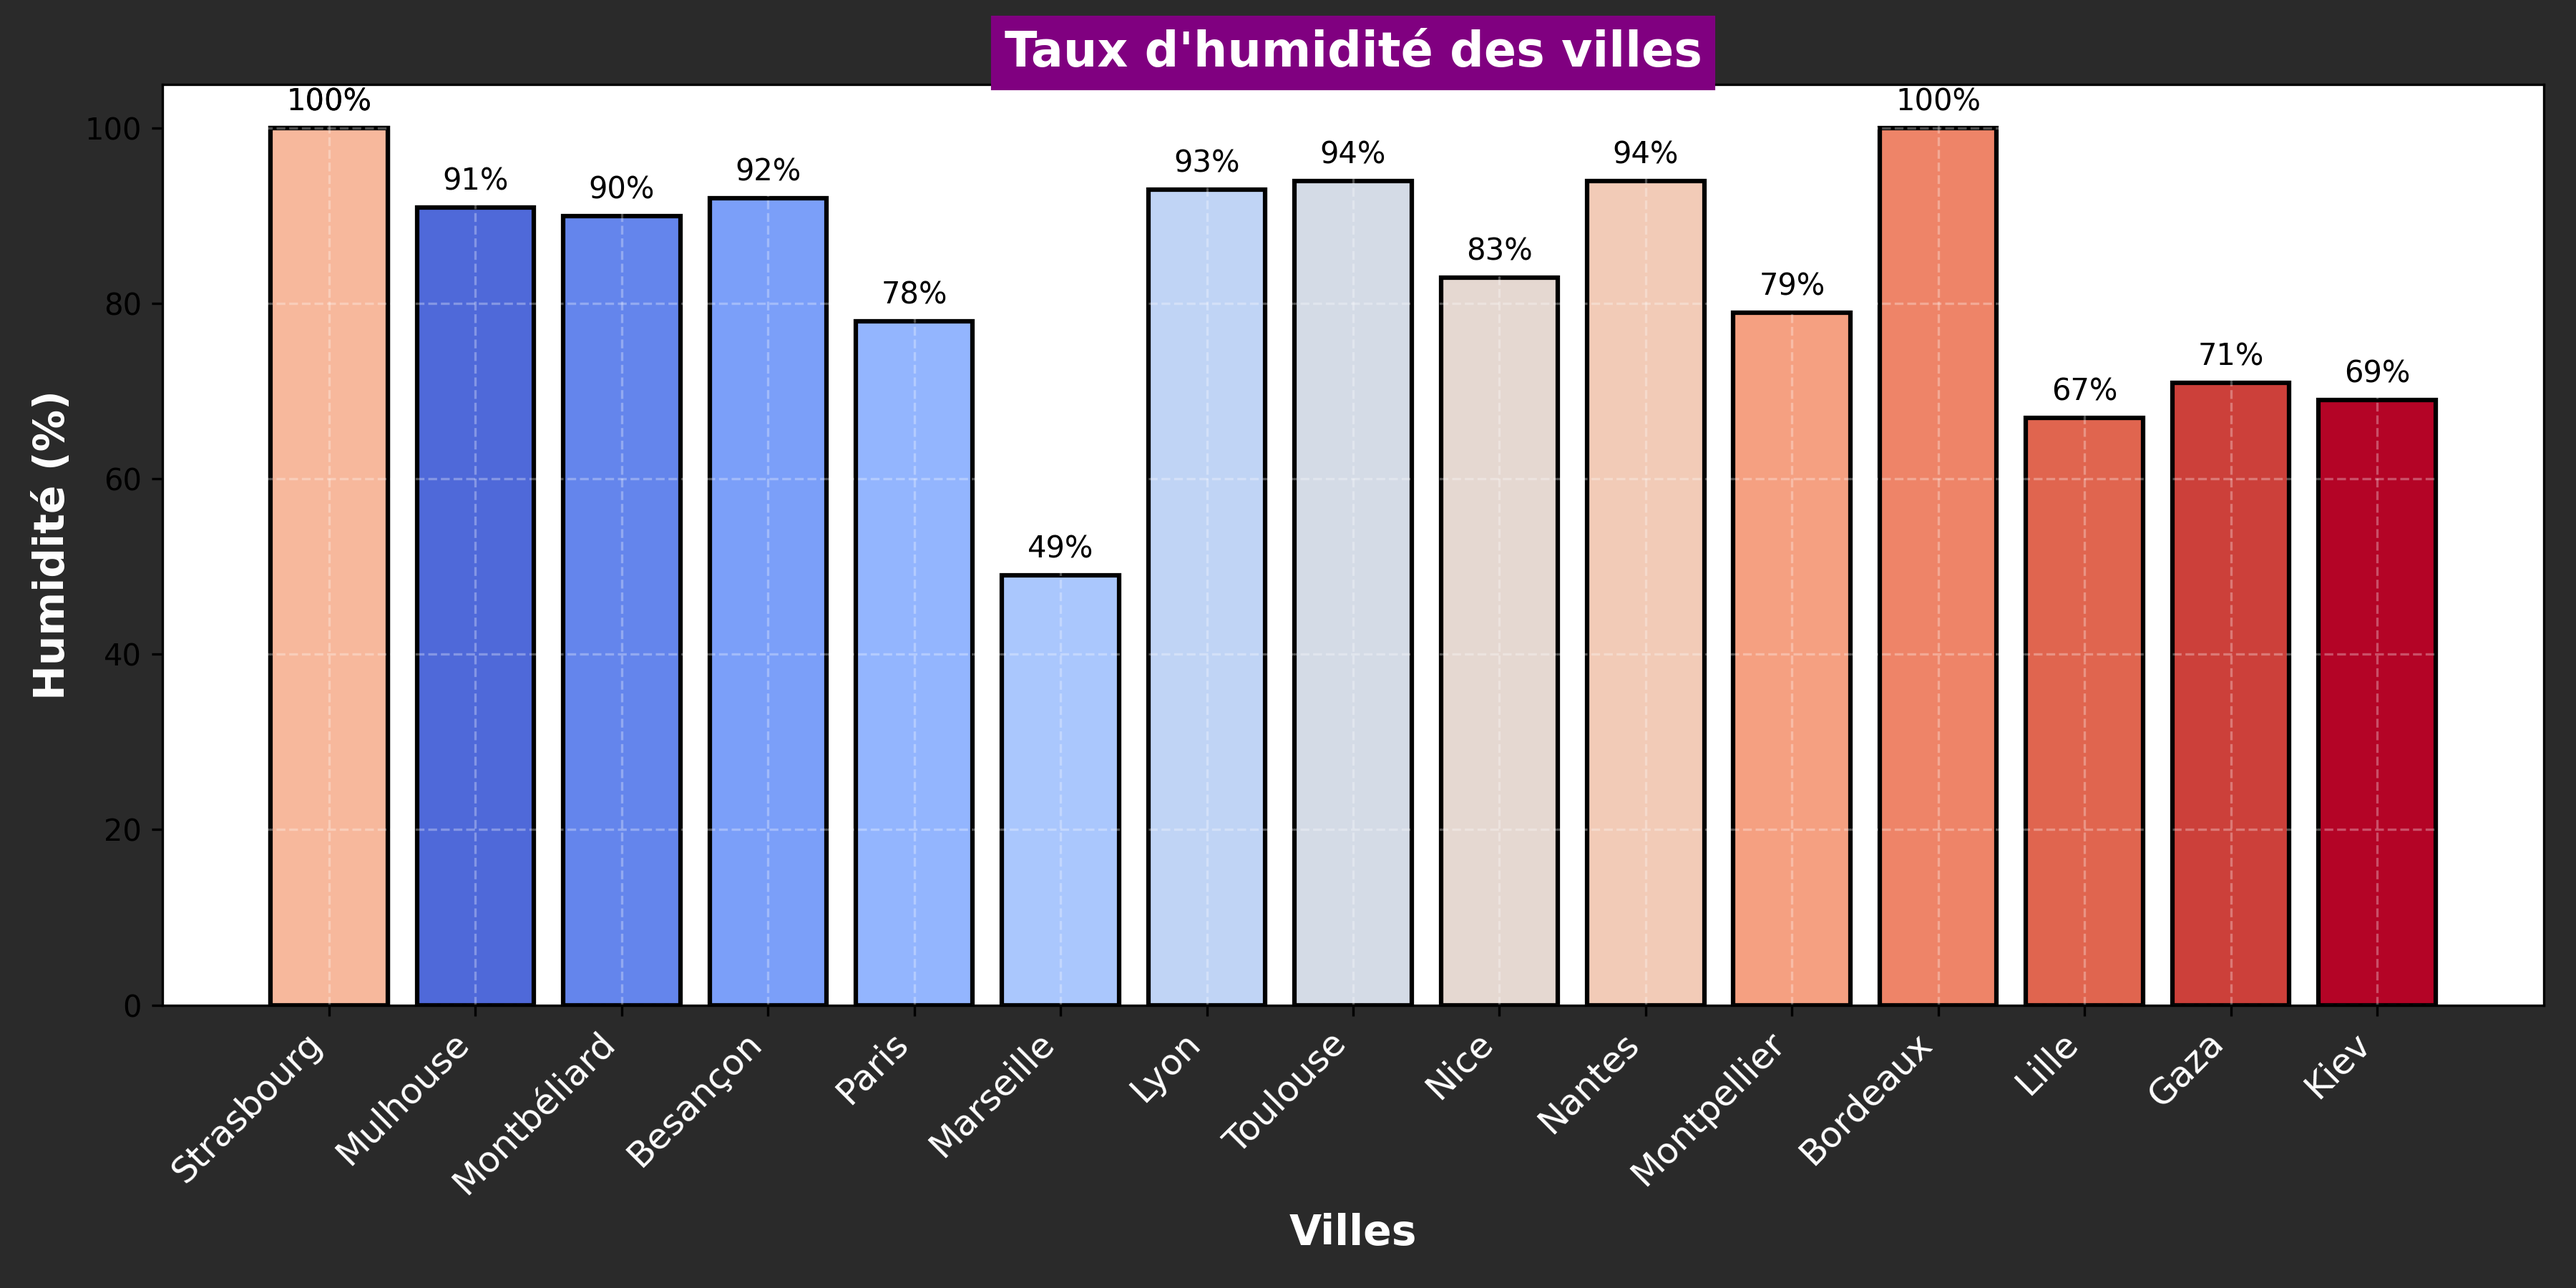
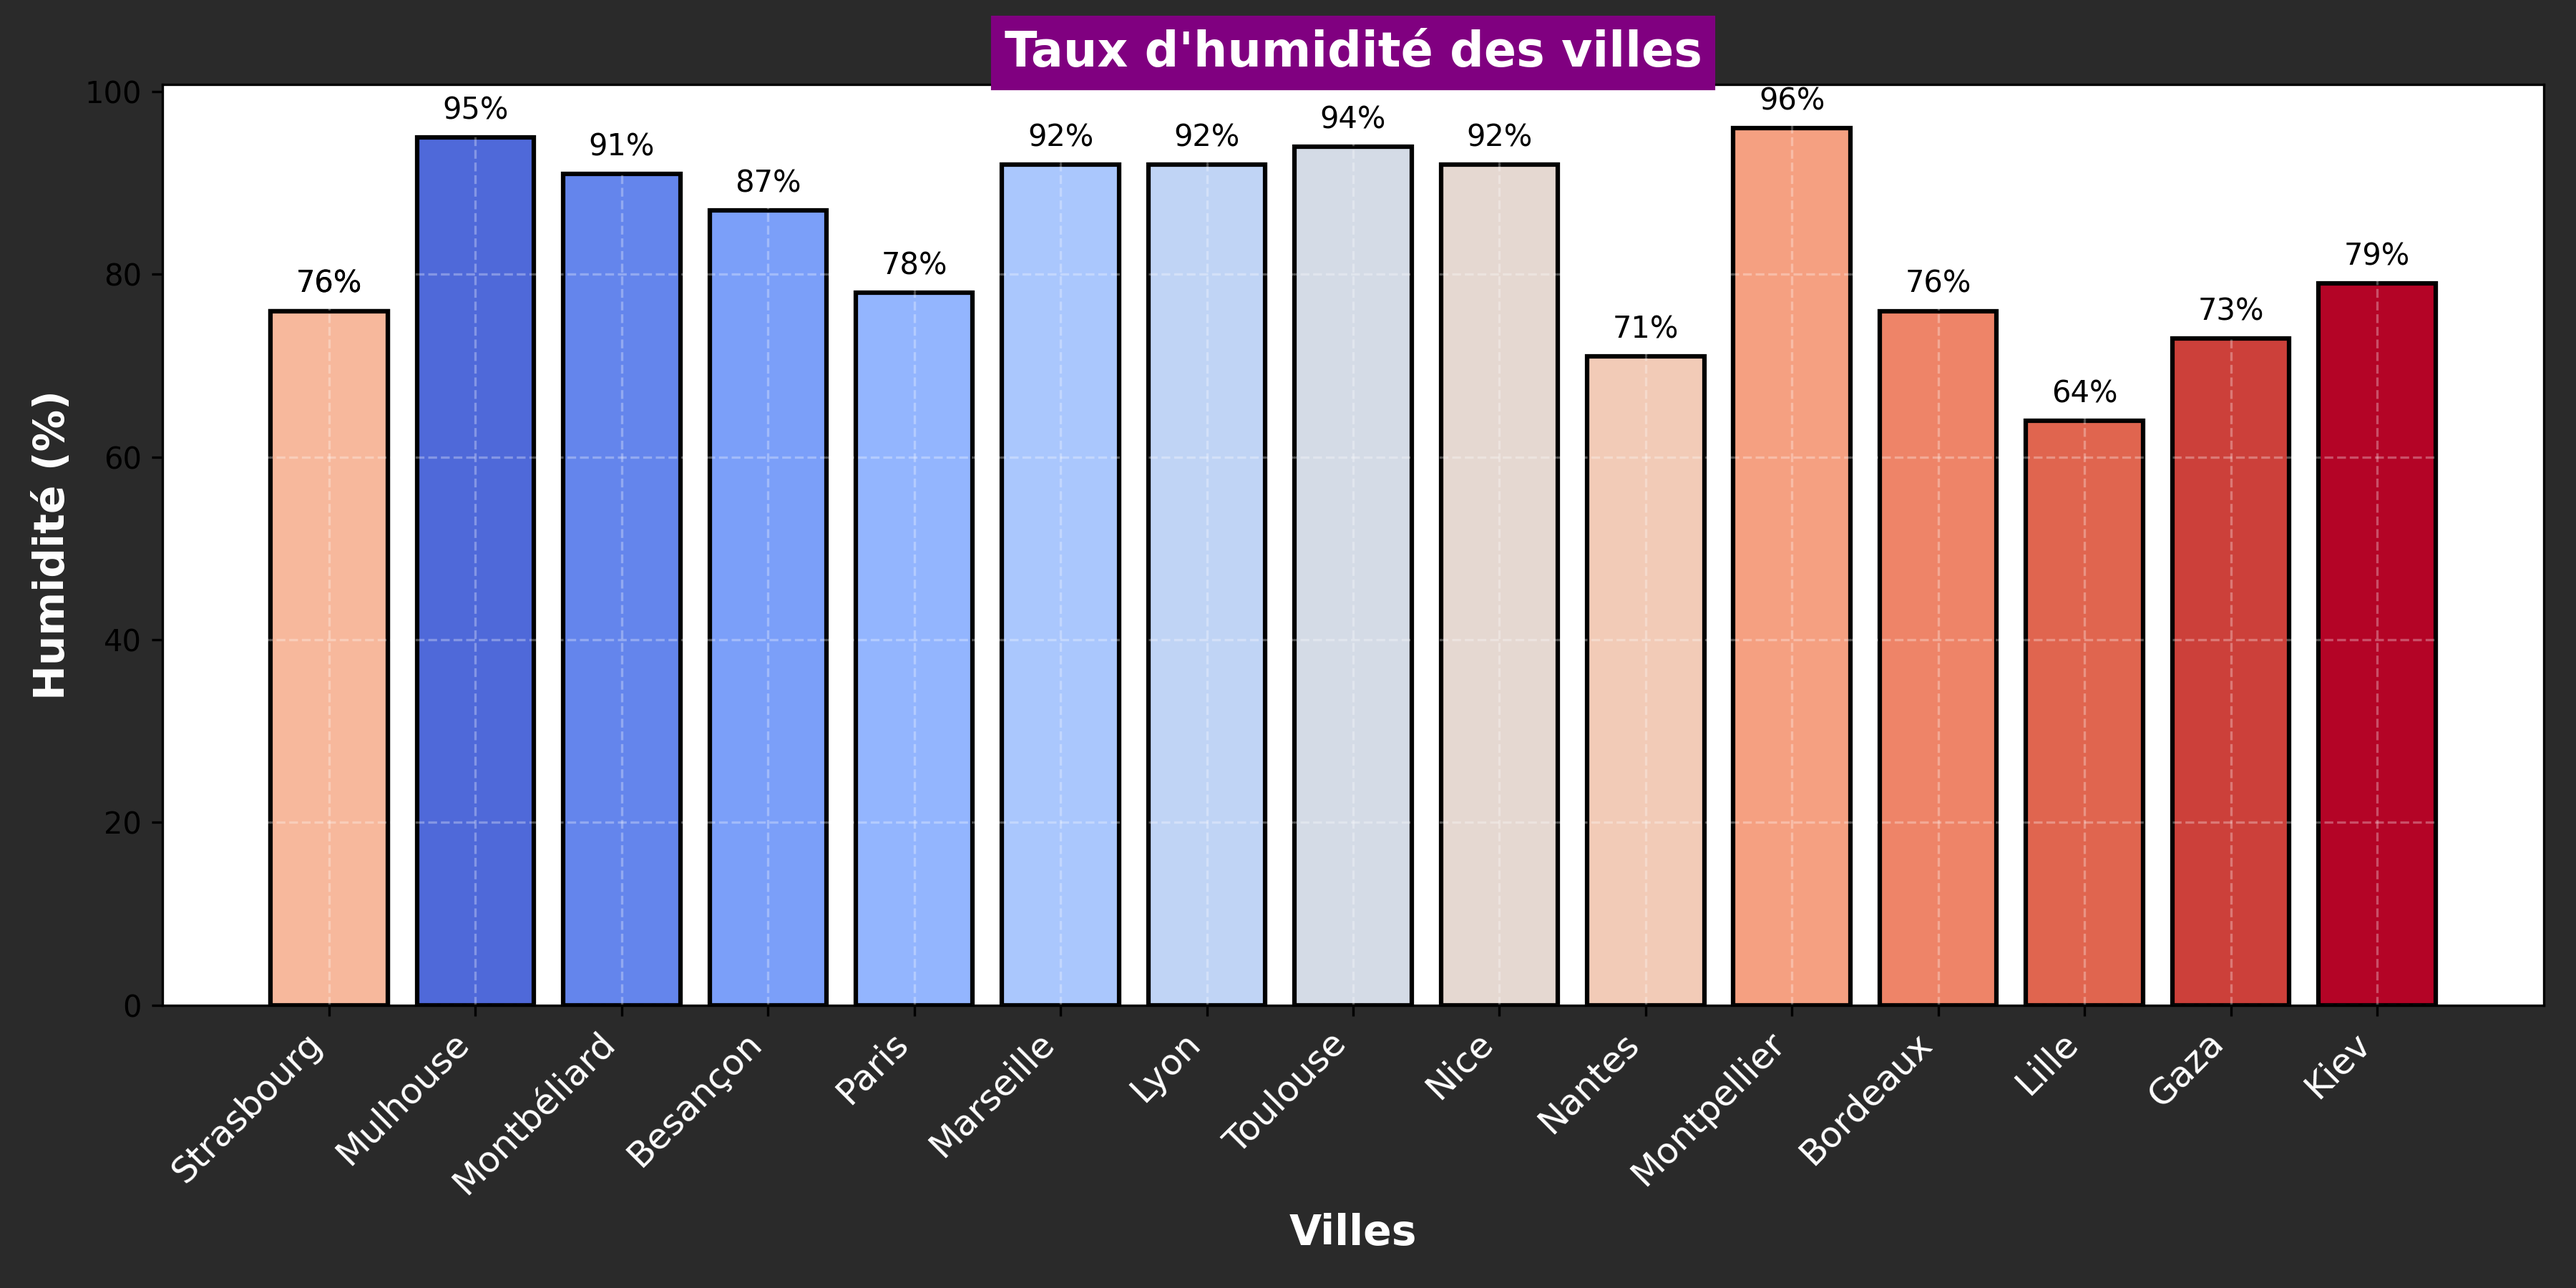
Mise à jour de la météo et ajout du graphique d'humidité

diff --git a/README.md b/README.md
@@ -24,103 +24,103 @@ Ce repo contient plusieurs workflows GitHub Actions :
 ## Météo actuelle :
 ## Météo des grandes villes + Gaza et Kiev 🌍
 
-🕒 Mise à jour : 04/05/2025 08:16:21
+🕒 Mise à jour : 05/05/2025 08:18:20
 
-### 🌍 Strasbourg 🌧
-**Conditions :** légère pluie
-**Température :** 11.02°C
-**Humidité :** 100%
-**Vent :** 2.57 m/s
+### 🌍 Strasbourg ☀
+**Conditions :** ciel dégagé
+**Température :** 9.01°C
+**Humidité :** 76%
+**Vent :** 8.23 m/s
 
-### 🌍 Mulhouse 🌥
-**Conditions :** nuageux
-**Température :** 14.04°C
-**Humidité :** 91%
-**Vent :** 1.79 m/s
+### 🌍 Mulhouse 🌧
+**Conditions :** pluie modérée
+**Température :** 7.84°C
+**Humidité :** 95%
+**Vent :** 4.12 m/s
 
 ### 🌍 Montbéliard 🌥
+**Conditions :** couvert
+**Température :** 8.32°C
+**Humidité :** 91%
+**Vent :** 4.33 m/s
+
+### 🌍 Besançon 🌥
+**Conditions :** couvert
+**Température :** 7.4°C
+**Humidité :** 87%
+**Vent :** 3.28 m/s
+
+### 🌍 Paris 🌥
 **Conditions :** nuageux
-**Température :** 15.54°C
-**Humidité :** 90%
-**Vent :** 1.48 m/s
-
-### 🌍 Besançon 🌧
-**Conditions :** légère pluie
-**Température :** 12.4°C
-**Humidité :** 92%
-**Vent :** 0.87 m/s
-
-### 🌍 Paris ☀
-**Conditions :** ciel dégagé
-**Température :** 9.54°C
+**Température :** 7.71°C
 **Humidité :** 78%
 **Vent :** 7.2 m/s
 
 ### 🌍 Marseille 🌥
 **Conditions :** couvert
-**Température :** 16.6°C
-**Humidité :** 49%
-**Vent :** 1.79 m/s
+**Température :** 12.4°C
+**Humidité :** 92%
+**Vent :** 4.47 m/s
 
-### 🌍 Lyon 🌧
-**Conditions :** légère pluie
-**Température :** 11.97°C
-**Humidité :** 93%
-**Vent :** 0.99 m/s
+### 🌍 Lyon 🌥
+**Conditions :** couvert
+**Température :** 6.46°C
+**Humidité :** 92%
+**Vent :** 1.65 m/s
 
 ### 🌍 Toulouse 🌥
 **Conditions :** couvert
-**Température :** 15.99°C
+**Température :** 12.99°C
 **Humidité :** 94%
-**Vent :** 1.54 m/s
+**Vent :** 4.63 m/s
 
 ### 🌍 Nice 🌥
-**Conditions :** nuageux
-**Température :** 11.39°C
-**Humidité :** 83%
-**Vent :** 1.18 m/s
-
-### 🌍 Nantes 🌥
 **Conditions :** couvert
-**Température :** 14.96°C
-**Humidité :** 94%
-**Vent :** 2.06 m/s
+**Température :** 8.05°C
+**Humidité :** 92%
+**Vent :** 1.53 m/s
 
-### 🌍 Strasbourg 🌧
-**Conditions :** légère pluie
-**Température :** 11.02°C
-**Humidité :** 100%
-**Vent :** 2.57 m/s
-
-### 🌍 Montpellier 🌥
-**Conditions :** couvert
-**Température :** 16.39°C
-**Humidité :** 79%
-**Vent :** 2.06 m/s
-
-### 🌍 Bordeaux 🌥
-**Conditions :** couvert
-**Température :** 14.15°C
-**Humidité :** 100%
-**Vent :** 2.06 m/s
-
-### 🌍 Lille 🌥
-**Conditions :** couvert
-**Température :** 10.45°C
-**Humidité :** 67%
-**Vent :** 3.6 m/s
-
-### 🌍 Gaza 🌥
-**Conditions :** peu nuageux
-**Température :** 20.28°C
+### 🌍 Nantes ☀
+**Conditions :** ciel dégagé
+**Température :** 7.96°C
 **Humidité :** 71%
-**Vent :** 3.28 m/s
+**Vent :** 4.63 m/s
+
+### 🌍 Strasbourg ☀
+**Conditions :** ciel dégagé
+**Température :** 9.01°C
+**Humidité :** 76%
+**Vent :** 8.23 m/s
+
+### 🌍 Montpellier ☀
+**Conditions :** ciel dégagé
+**Température :** 14.16°C
+**Humidité :** 96%
+**Vent :** 3.09 m/s
+
+### 🌍 Bordeaux ☀
+**Conditions :** ciel dégagé
+**Température :** 10.15°C
+**Humidité :** 76%
+**Vent :** 6.69 m/s
+
+### 🌍 Lille ☀
+**Conditions :** ciel dégagé
+**Température :** 7.99°C
+**Humidité :** 64%
+**Vent :** 3.09 m/s
+
+### 🌍 Gaza 🌧
+**Conditions :** légère pluie
+**Température :** 20.45°C
+**Humidité :** 73%
+**Vent :** 5.22 m/s
 
 ### 🌍 Kiev 🌥
-**Conditions :** nuageux
-**Température :** 20.76°C
-**Humidité :** 69%
-**Vent :** 5.25 m/s
+**Conditions :** couvert
+**Température :** 13.73°C
+**Humidité :** 79%
+**Vent :** 2.36 m/s
 
 <p align='center'><img src='https://raw.githubusercontent.com/khoa083/khoa/main/Khoa_ne/img/Rainbow.gif' width='100%' style='border-radius: 5px; border: 3px solid #39FF14; box-shadow: 0 0 10px #39FF14, 0 0 20px #39FF14;' /></p>
 
